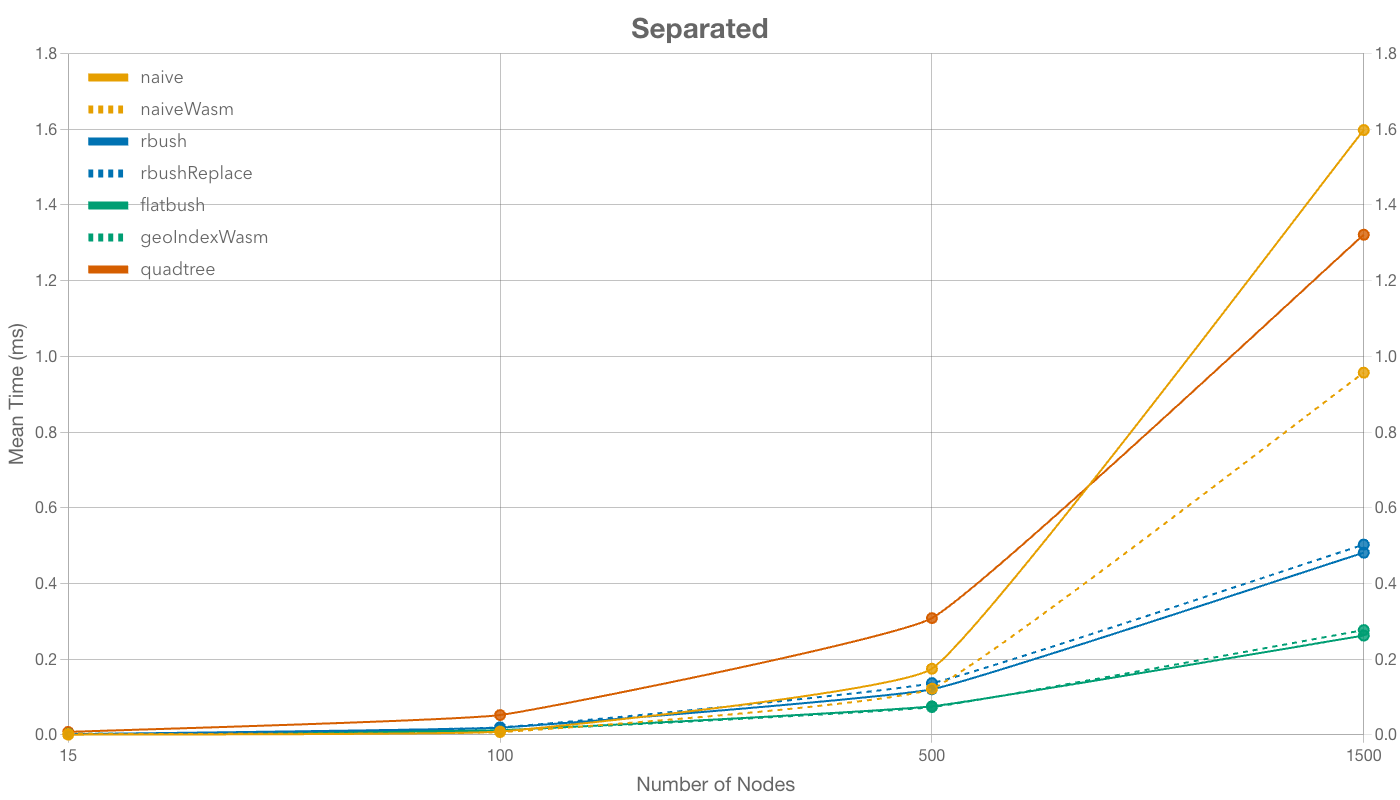
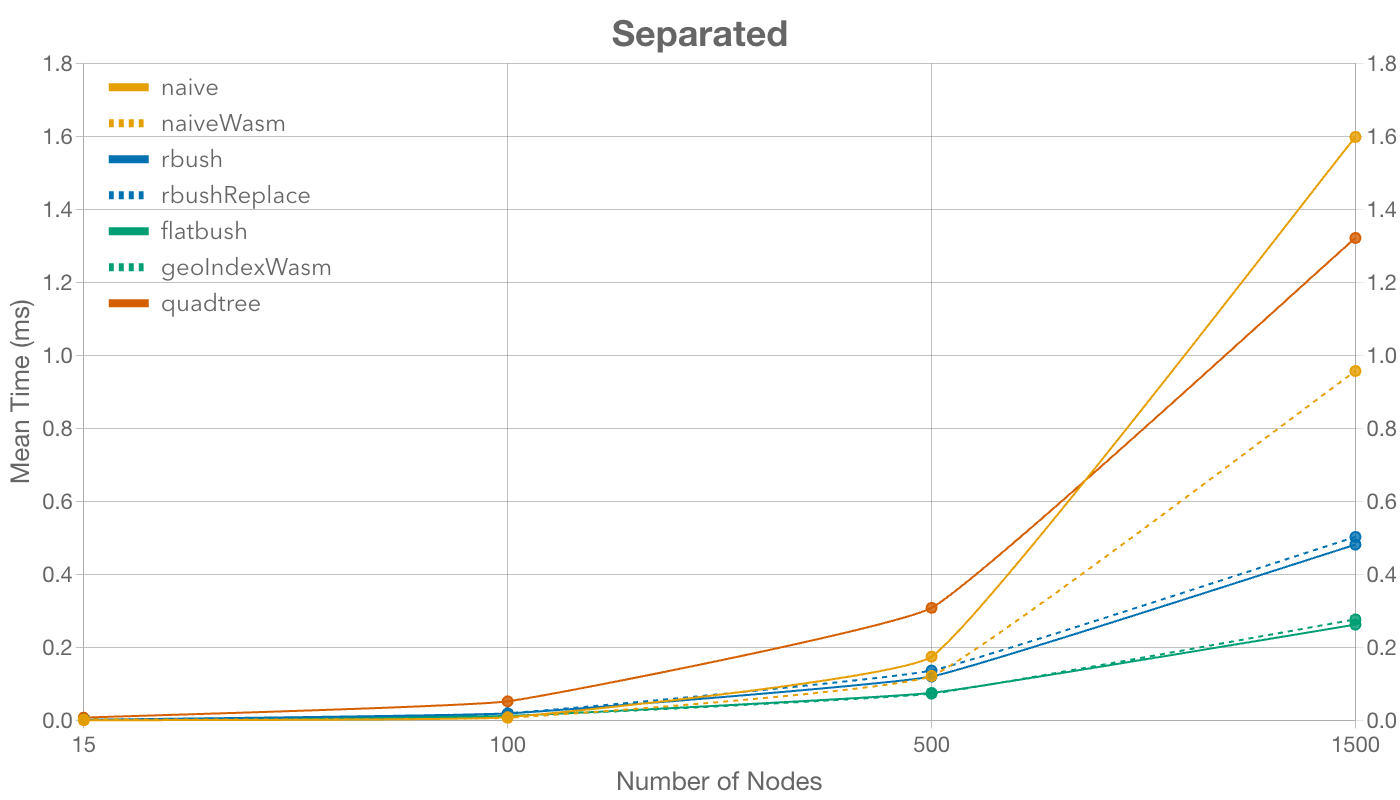
improve legend

diff --git a/scripts/generate-bench-images.ts b/scripts/generate-bench-images.ts
@@ -176,9 +176,9 @@ async function generateBenchImages() {
 					const datasets = chart.data.datasets;
 					const chartArea = chart.chartArea;
 
-					const legendX = chartArea.left + 20;
+					const legendX = chartArea.left + 25;
 					const legendY = chartArea.top + 20;
-					const lineHeight = 32;
+					const lineHeight = 36;
 					const boxWidth = 40;
 					const boxHeight = 4;
 
@@ -188,10 +188,10 @@ async function generateBenchImages() {
 						const ds = dataset as any;
 						const y = legendY + i * lineHeight;
 
-					// Draw line (with dash if applicable)
-					ctx.beginPath();
-					ctx.strokeStyle = ds.borderColor as string;
-					ctx.lineWidth = 8;
+						// Draw line (with dash if applicable)
+						ctx.beginPath();
+						ctx.strokeStyle = ds.borderColor as string;
+						ctx.lineWidth = 8;
 						if (ds.borderDash && ds.borderDash.length > 0) {
 							ctx.setLineDash(ds.borderDash);
 						} else {
@@ -201,10 +201,10 @@ async function generateBenchImages() {
 						ctx.lineTo(legendX + boxWidth, y + boxHeight);
 						ctx.stroke();
 
-					// Draw label
-					ctx.setLineDash([]);
-					ctx.fillStyle = '#666';
-					ctx.font = '18px sans-serif';
+						// Draw label
+						ctx.setLineDash([]);
+						ctx.fillStyle = '#666';
+						ctx.font = '24px sans-serif';
 						ctx.textBaseline = 'middle';
 						ctx.fillText(ds.label as string, legendX + boxWidth + 12, y + boxHeight);
 					});
@@ -243,7 +243,7 @@ async function generateBenchImages() {
 							display: true,
 							text: titleText,
 							font: {
-								size: 28,
+								size: 36,
 								weight: 'bold'
 							},
 							color: '#666'
@@ -269,7 +269,7 @@ async function generateBenchImages() {
 								display: true,
 								text: 'Mean Time (ms)',
 								font: {
-									size: 20
+									size: 26
 								},
 								color: '#666'
 							},
@@ -278,7 +278,7 @@ async function generateBenchImages() {
 							},
 							ticks: {
 								font: {
-									size: 16
+									size: 22
 								},
 								color: '#666',
 								callback: function (value) {
@@ -298,7 +298,7 @@ async function generateBenchImages() {
 							},
 							ticks: {
 								font: {
-									size: 16
+									size: 22
 								},
 								color: '#666',
 								callback: function (value) {
@@ -314,7 +314,7 @@ async function generateBenchImages() {
 								display: true,
 								text: 'Number of Nodes',
 								font: {
-									size: 20
+									size: 26
 								},
 								color: '#666'
 							},
@@ -323,7 +323,7 @@ async function generateBenchImages() {
 							},
 							ticks: {
 								font: {
-									size: 16
+									size: 22
 								},
 								color: '#666'
 							}
